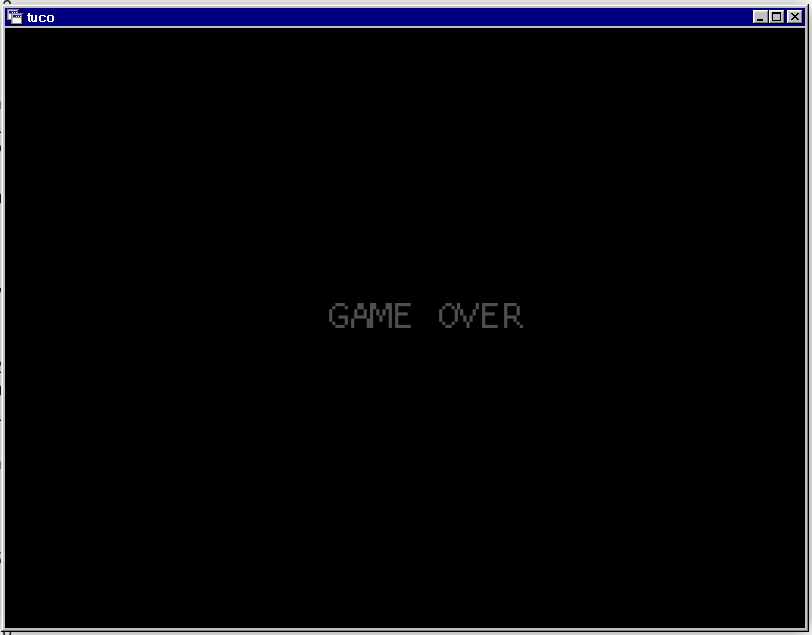
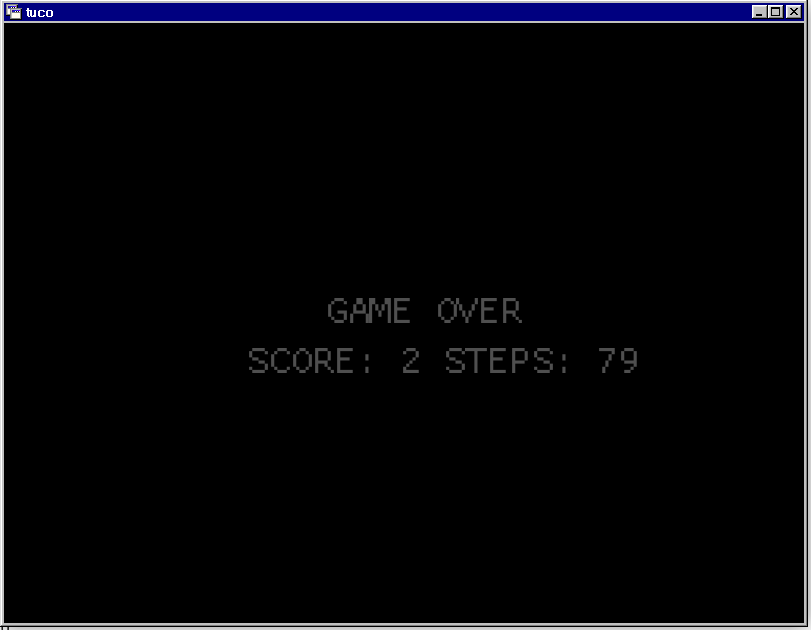
rank

diff --git a/src/main.rs b/src/main.rs
@@ -178,14 +178,14 @@ async fn main() -> Result<()> {
             );
 
             match gold_position {
-                0 => draw_rectangle(120., 130., 40., 40., yellow), // left_top
-                1 => draw_rectangle(120., 460., 40., 40., yellow), // left bottom
-                2 => {
+                LEFT_TOP => draw_rectangle(120., 130., 40., 40., yellow),
+                LEFT_BOTTOM => draw_rectangle(120., 460., 40., 40., yellow),
+                RIGHT_TOP => {
                     draw_rectangle((width / 2.) + 240., 130., 40., 40., yellow)
-                } // right top
-                3 => {
+                }
+                RIGHT_BOTTOM => {
                     draw_rectangle((width / 2.) + 240., 460., 40., 40., yellow)
-                } // right bottom
+                }
                 _ => warn!(":D"),
             }
 
@@ -255,7 +255,16 @@ async fn main() -> Result<()> {
             }
         } else {
             audio::stop_sound(&music);
+            let rank = format!("SCORE: {} STEPS: {}", p.score, p.steps);
+            let rank_size = measure_text(rank.as_str(), None, FONT_SIZE as _, 1.);
             let text_size = measure_text("GAME OVER", None, FONT_SIZE as _, 1.);
+            draw_text(
+                rank.as_str(),
+                width / 2. - rank_size.width,
+                height / 2. + 50.,
+                50.,
+                DARKGRAY,
+            );
             draw_text(
                 "GAME OVER",
                 width / 2. - text_size.width,
